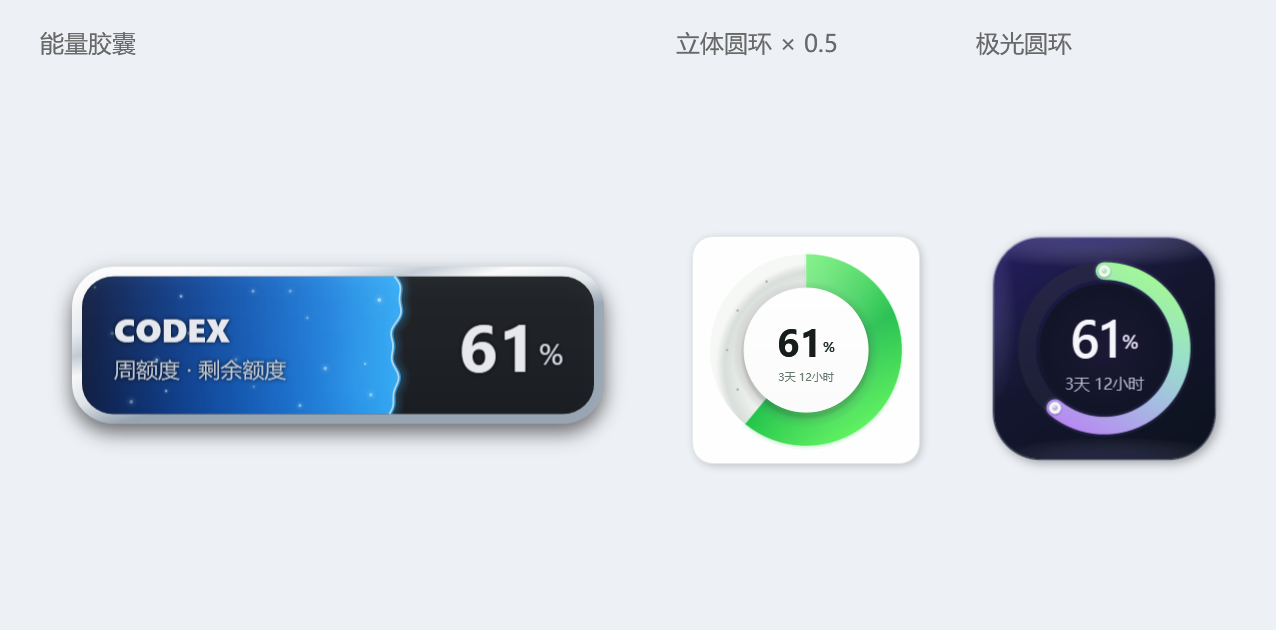
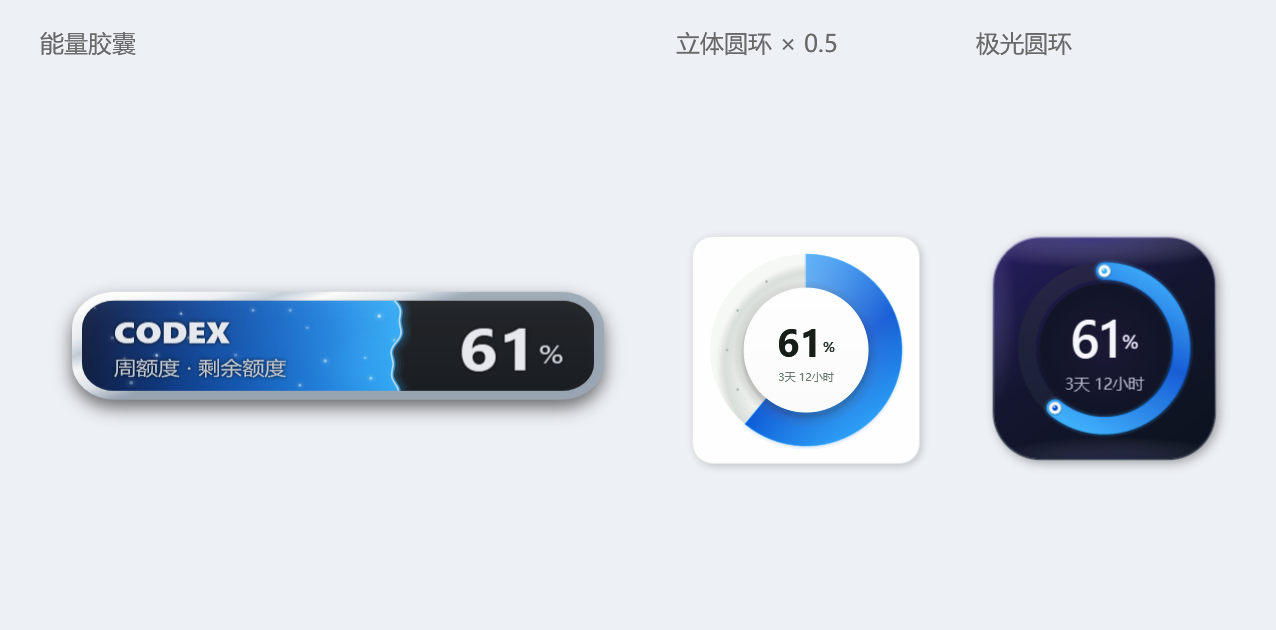
Unify skin quota colors and reduce capsule height

diff --git a/src/RingMeter.cs b/src/RingMeter.cs
@@ -23,12 +23,12 @@ class RingSurface : FrameworkElement {
         if(p<=0)return;
         var arc=new StreamGeometry();using(var s=arc.Open()){s.BeginFigure(new Point(c,c-r),false,false);if(p>=0.9999){s.ArcTo(new Point(c,c+r),new Size(r,r),0,false,SweepDirection.Clockwise,true,false);s.ArcTo(new Point(c,c-r),new Size(r,r),0,false,SweepDirection.Clockwise,true,false);}else{double a=-Math.PI/2+p*2*Math.PI;s.ArcTo(new Point(c+r*Math.Cos(a),c+r*Math.Sin(a)),new Size(r,r),0,p>0.5,SweepDirection.Clockwise,true,false);}}arc.Freeze();
         var color=new LinearGradientBrush{StartPoint=new Point(0.8,0),EndPoint=new Point(0.15,1)};
-        string head=Remaining>50?"#9DFF7B":Remaining>30?"#81DAFF":Remaining>10?"#FFE286":"#FF9DAD";
-        color.GradientStops.Add(new GradientStop(B(head).Color,0));color.GradientStops.Add(new GradientStop(B(Remaining>30?"#8FE0C2":"#E9A0B7").Color,0.36));color.GradientStops.Add(new GradientStop(B("#9CB6E0").Color,0.65));color.GradientStops.Add(new GradientStop(B("#B478F3").Color,1));
-        dc.DrawGeometry(null,new Pen(new SolidColorBrush(Color.FromArgb(20,173,139,255)),23){StartLineCap=PenLineCap.Round,EndLineCap=PenLineCap.Round},arc);
+        var palette=QuotaColors.For(Remaining);
+        color.GradientStops.Add(new GradientStop(palette.Tip,0));color.GradientStops.Add(new GradientStop(palette.Body,0.45));color.GradientStops.Add(new GradientStop(palette.Tip,1));
+        dc.DrawGeometry(null,new Pen(new SolidColorBrush(Color.FromArgb(35,palette.Tip.R,palette.Tip.G,palette.Tip.B)),23){StartLineCap=PenLineCap.Round,EndLineCap=PenLineCap.Round},arc);
         dc.DrawGeometry(null,new Pen(color,18){StartLineCap=PenLineCap.Round,EndLineCap=PenLineCap.Round},arc);
         dc.DrawGeometry(null,new Pen(new SolidColorBrush(Color.FromArgb(20,255,255,255)),16){StartLineCap=PenLineCap.Round,EndLineCap=PenLineCap.Round},arc);
-        for(int i=0;i<(p>0.995?1:2);i++){double a=-Math.PI/2+(i==0?0:p*2*Math.PI);Point dot=new Point(c+r*Math.Cos(a),c+r*Math.Sin(a));dc.DrawEllipse(new SolidColorBrush(Color.FromArgb(40,8,9,28)),null,new Point(dot.X,dot.Y+1),7.2,7.2);dc.DrawEllipse(B("#F6FAF7"),new Pen(B("#D9E4E1"),0.7),dot,6,6);dc.DrawEllipse(B(i==0?"#A5E9B1":"#CAB0E8"),null,dot,2.9,2.9);dc.DrawEllipse(Brushes.White,null,new Point(dot.X-0.8,dot.Y-1.1),1,1);}
+        for(int i=0;i<(p>0.995?1:2);i++){double a=-Math.PI/2+(i==0?0:p*2*Math.PI);Point dot=new Point(c+r*Math.Cos(a),c+r*Math.Sin(a));dc.DrawEllipse(new SolidColorBrush(Color.FromArgb(40,8,9,28)),null,new Point(dot.X,dot.Y+1),7.2,7.2);dc.DrawEllipse(B("#F6FAF7"),new Pen(B("#D9E4E1"),0.7),dot,6,6);dc.DrawEllipse(new SolidColorBrush(i==0?palette.Tip:palette.Body),null,dot,2.9,2.9);dc.DrawEllipse(Brushes.White,null,new Point(dot.X-0.8,dot.Y-1.1),1,1);}
     }
     protected override void OnRender(DrawingContext dc){
         if(Dark){DrawDark(dc);return;}
@@ -42,14 +42,10 @@ class RingSurface : FrameworkElement {
             Geometry arc;
             if(p>=0.99999)arc=new CombinedGeometry(GeometryCombineMode.Exclude,new EllipseGeometry(new Point(c,c),r,r),new EllipseGeometry(new Point(c,c),inner,inner));
             else{double a=-Math.PI/2+p*Math.PI*2;Point outerEnd=new Point(c+r*Math.Cos(a),c+r*Math.Sin(a)),innerEnd=new Point(c+inner*Math.Cos(a),c+inner*Math.Sin(a));var g=new StreamGeometry();using(var s=g.Open()){s.BeginFigure(new Point(c,c-r),true,true);s.ArcTo(outerEnd,new Size(r,r),0,p>0.5,SweepDirection.Clockwise,true,false);s.LineTo(innerEnd,true,false);s.ArcTo(new Point(c,c-inner),new Size(inner,inner),0,p>0.5,SweepDirection.Counterclockwise,true,false);}g.Freeze();arc=g;}
-            Color light,dark;
-            if(Remaining>50){light=Color.FromRgb(112,255,103);dark=Color.FromRgb(18,187,64);}
-            else if(Remaining>30){light=Color.FromRgb(132,215,255);dark=Color.FromRgb(41,121,228);}
-            else if(Remaining>10){light=Color.FromRgb(255,230,109);dark=Color.FromRgb(229,159,25);}
-            else{light=Color.FromRgb(255,156,144);dark=Color.FromRgb(231,64,75);}
+            var palette=QuotaColors.For(Remaining);Color light=palette.Tip,dark=palette.Body;
             var fill=new LinearGradientBrush();fill.StartPoint=new Point(0,0);fill.EndPoint=new Point(0.8,1);fill.GradientStops.Add(new GradientStop(light,0));fill.GradientStops.Add(new GradientStop(dark,0.57));fill.GradientStops.Add(new GradientStop(light,1));
             dc.PushTransform(new TranslateTransform(0,1.6));dc.DrawGeometry(new SolidColorBrush(Color.FromArgb(25,dark.R,dark.G,dark.B)),new Pen(new SolidColorBrush(Color.FromArgb(15,dark.R,dark.G,dark.B)),4),arc);dc.Pop();
-            dc.DrawGeometry(fill,new Pen(new SolidColorBrush(Color.FromArgb(120,210,255,209)),1),arc);
+            dc.DrawGeometry(fill,new Pen(new SolidColorBrush(Color.FromArgb(120,light.R,light.G,light.B)),1),arc);
             dc.PushClip(arc);var glint=new RadialGradientBrush();glint.Center=new Point(0.5,0.18);glint.GradientOrigin=new Point(0.5,0.18);glint.RadiusX=0.60;glint.RadiusY=0.80;glint.GradientStops.Add(new GradientStop(Color.FromArgb(80,255,255,255),0));glint.GradientStops.Add(new GradientStop(Colors.Transparent,1));dc.DrawRectangle(glint,null,new Rect(c-r,c-r,2*r,2*r));dc.Pop();
         }
         for(int i=12;i>=1;i--)dc.DrawEllipse(new SolidColorBrush(Color.FromArgb((byte)(i<5?12:4),33,43,35)),null,new Point(c,c+4),inner+i*0.9,inner+i*0.9);
@@ -66,14 +62,14 @@ class AuroraShine : FrameworkElement {
 }
 
 class RingWindow : Window {
-    readonly string store;readonly bool dark;
+    readonly string store;readonly bool dark,previewMode;
     readonly string shared=Path.Combine(Environment.GetFolderPath(Environment.SpecialFolder.LocalApplicationData),"CodexUsageFloat","quota-cache.json");
     Border card;RingSurface ring;TextBlock percent,countdown;FrameGlow sweep;Forms.NotifyIcon tray;
     DispatcherTimer clock,scanTimer;TaskMonitor monitor;Rpc rpc;object rpcLock=new object();AutoResetEvent refresh=new AutoResetEvent(false);CancellationTokenSource cancel=new CancellationTokenSource();bool closing;int scanBusy;DateTime reset=DateTime.MinValue;DateTime updated;object current;
     public bool IsSweeping {get{return sweep.Active;}}public double SweepPhase {get{return sweep.Phase;}}public bool IsDark {get{return dark;}}
     static SolidColorBrush B(string color){return (SolidColorBrush)new BrushConverter().ConvertFromString(color);}
     public RingWindow(bool preview=false,bool darkStyle=false){
-        dark=darkStyle;store=Path.Combine(Environment.GetFolderPath(Environment.SpecialFolder.LocalApplicationData),dark?"CodexUsageAurora":"CodexUsageRing");
+        previewMode=preview;dark=darkStyle;store=Path.Combine(Environment.GetFolderPath(Environment.SpecialFolder.LocalApplicationData),dark?"CodexUsageAurora":"CodexUsageRing");
         Title=dark?"Codex 极光圆环":"Codex 用量圆环";Width=130;Height=130;WindowStyle=WindowStyle.None;ResizeMode=ResizeMode.NoResize;AllowsTransparency=true;Background=Brushes.Transparent;Topmost=true;ShowInTaskbar=false;FontFamily=new FontFamily("Microsoft YaHei UI");
         var root=new Grid{Width=260,Height=260,LayoutTransform=new ScaleTransform(0.5,0.5)};card=new Border{Background=Brushes.White,BorderBrush=B("#E4E8E6"),BorderThickness=new Thickness(1),CornerRadius=new CornerRadius(dark?48:20),Margin=new Thickness(16),Opacity=dark?0.98:0.97,Effect=new System.Windows.Media.Effects.DropShadowEffect{Color=dark?Color.FromRgb(10,11,36):Color.FromRgb(21,31,27),BlurRadius=dark?17:12,ShadowDepth=dark?5:4,Opacity=dark?0.36:0.20}};
         if(dark){var body=new LinearGradientBrush();body.StartPoint=new Point(0.15,0);body.EndPoint=new Point(0.85,1);body.GradientStops.Add(new GradientStop(B("#21195A").Color,0));body.GradientStops.Add(new GradientStop(B("#10122C").Color,0.46));body.GradientStops.Add(new GradientStop(B("#090F1C").Color,1));card.Background=body;card.BorderBrush=new LinearGradientBrush(B("#A09ACA").Color,B("#202C3D").Color,90);card.BorderThickness=new Thickness(1.2);}
@@ -98,7 +94,7 @@ class RingWindow : Window {
     volatile bool forceRead;
     void Add(ContextMenu m,string name,Action action){var item=new MenuItem{Header=name};item.Click+=(s,e)=>action();m.Items.Add(item);}
     void Restore(){Left=SystemParameters.WorkArea.Right-Width-350;Top=SystemParameters.WorkArea.Top+80;try{string file=Path.Combine(store,"settings.json");if(File.Exists(file)){var d=Data.Json().DeserializeObject(File.ReadAllText(file));Left=Data.Num(Data.Get(d,"left"),Left);Top=Data.Num(Data.Get(d,"top"),Top);}else{string main=Path.Combine(Environment.GetFolderPath(Environment.SpecialFolder.LocalApplicationData),"CodexUsageFloat","settings.json");if(File.Exists(main)){var d=Data.Json().DeserializeObject(File.ReadAllText(main));Left=Data.Num(Data.Get(d,"left"),Left)-Width-12;Top=Data.Num(Data.Get(d,"top"),Top);}}}catch{}Left=Math.Max(SystemParameters.VirtualScreenLeft,Math.Min(Left,SystemParameters.VirtualScreenLeft+SystemParameters.VirtualScreenWidth-Width));Top=Math.Max(SystemParameters.VirtualScreenTop,Math.Min(Top,SystemParameters.VirtualScreenTop+SystemParameters.VirtualScreenHeight-Height));}
-    void Save(){try{Data.Atomic(Path.Combine(store,"settings.json"),Data.Json().Serialize(new{left=Left,top=Top}));}catch{}}
+    void Save(){if(previewMode)return;try{Data.Atomic(Path.Combine(store,"settings.json"),Data.Json().Serialize(new{left=Left,top=Top}));}catch{}}
     public static string Countdown(DateTime target,DateTime now){if(target==DateTime.MinValue)return "重置时间暂未提供";double seconds=Math.Ceiling((target-now).TotalSeconds);if(seconds<=0)return "等待额度重置…";if(seconds<3600)return "不足1小时";var t=TimeSpan.FromSeconds(seconds);return (t.Days>0?t.Days+"天 ":"")+t.Hours+"小时";}
     void UpdateCountdown(){countdown.Text=Countdown(reset,DateTime.Now);countdown.ToolTip=reset==DateTime.MinValue?"额度接口未返回重置时间":reset.ToString("yyyy-MM-dd HH:mm:ss")+" 重置（本地时间）";}
     public void ApplyData(object data,bool stale,DateTime time){current=data;updated=time;var rows=Data.Quotas(data);if(rows.Count==0){percent.Text="—";reset=DateTime.MinValue;UpdateCountdown();return;}var q=rows.First();ring.Remaining=q.Remaining;ring.InvalidateVisual();percent.Text=q.Remaining.ToString("0.#")+(stale?"*":"");reset=q.Reset;card.ToolTip=(stale?"缓存额度 · ":"已同步 ")+time.ToString("HH:mm:ss")+"\n"+string.Join("\n",rows.Select(r=>r.Label+"剩余 "+r.Remaining.ToString("0.#")+"%"));UpdateCountdown();}

diff --git a/src/CodexMeter.cs b/src/CodexMeter.cs
@@ -19,14 +19,27 @@ using System.Windows.Markup;
 using Forms = System.Windows.Forms;
 
 namespace CodexMeter {
+sealed class QuotaColors {
+    public readonly Color Start,Body,Tip;public readonly string Name;
+    QuotaColors(string name,string start,string body,string tip){Name=name;Start=(Color)ColorConverter.ConvertFromString(start);Body=(Color)ColorConverter.ConvertFromString(body);Tip=(Color)ColorConverter.ConvertFromString(tip);}
+    static readonly QuotaColors[] stages={
+        new QuotaColors("翠绿","#08260F","#0F9D2A","#70F77D"),
+        new QuotaColors("蓝色","#09173A","#004DD2","#31B1FF"),
+        new QuotaColors("紫色","#1B0F34","#5727AE","#B688FF"),
+        new QuotaColors("金黄","#312507","#AF900D","#FFED73"),
+        new QuotaColors("橙黄","#412007","#DB7900","#FFDA53"),
+        new QuotaColors("红橙","#3B0E1C","#C51F3E","#FF8153")
+    };
+    public static QuotaColors For(double remaining){return stages[remaining>80?0:remaining>60?1:remaining>40?2:remaining>20?3:remaining>10?4:5];}
+}
 static class Data {
     public static Dictionary<string,object> Obj(object x) { return x as Dictionary<string,object> ?? new Dictionary<string,object>(); }
     public static object Get(object x,string k) { object v; return Obj(x).TryGetValue(k,out v)?v:null; }
     public static string Str(object x) { return x == null ? "" : Convert.ToString(x,System.Globalization.CultureInfo.InvariantCulture); }
     public static double Num(object x,double fallback) { double v; return double.TryParse(Str(x),System.Globalization.NumberStyles.Any,System.Globalization.CultureInfo.InvariantCulture,out v)&&!double.IsInfinity(v)&&!double.IsNaN(v)?v:fallback; }
     public static JavaScriptSerializer Json() { return new JavaScriptSerializer { MaxJsonLength=32000000, RecursionLimit=120 }; }
-    public static string Stage(double n) { return n>50?"#56DCA8":n>30?"#65B8FF":n>10?"#F5C35E":"#FF7485"; }
-    public static string StageName(double n) { return n>50?"充足":n>30?"正常":n>10?"留意额度":"即将用尽"; }
+    public static string Stage(double n) { return QuotaColors.For(n).Body.ToString(); }
+    public static string StageName(double n) { return QuotaColors.For(n).Name; }
     public static DateTime Epoch(object x) { double s=Num(x,0); try{return new DateTime(1970,1,1,0,0,0,DateTimeKind.Utc).AddSeconds(s).ToLocalTime();}catch{return DateTime.MinValue;} }
     public static void Atomic(string path,string value) { string tmp=path+".tmp"; File.WriteAllText(tmp,value,new UTF8Encoding(false)); if(File.Exists(path)) File.Replace(tmp,path,null); else File.Move(tmp,path); }
     public static List<Quota> Quotas(object result) {
@@ -154,13 +167,7 @@ class EnergySurface : FrameworkElement {
     protected override void OnRender(DrawingContext dc){
         double w=ActualWidth,h=ActualHeight;if(w<=0||h<=0)return;
         double t=elapsed.Elapsed.TotalSeconds,p=double.IsNaN(DisplayedRemaining)?Remaining:DisplayedRemaining,x=w*Math.Max(0,Math.Min(100,p))/100;
-        Color start,body,tip;
-        if(Remaining>80){start=Color.FromRgb(8,38,15);body=Color.FromRgb(15,157,42);tip=Color.FromRgb(112,247,125);}
-        else if(Remaining>60){start=Color.FromRgb(9,23,58);body=Color.FromRgb(0,77,210);tip=Color.FromRgb(49,177,255);}
-        else if(Remaining>40){start=Color.FromRgb(27,15,52);body=Color.FromRgb(87,39,174);tip=Color.FromRgb(182,136,255);}
-        else if(Remaining>20){start=Color.FromRgb(49,37,7);body=Color.FromRgb(175,144,13);tip=Color.FromRgb(255,237,115);}
-        else if(Remaining>10){start=Color.FromRgb(65,32,7);body=Color.FromRgb(219,121,0);tip=Color.FromRgb(255,218,83);}
-        else{start=Color.FromRgb(59,14,28);body=Color.FromRgb(197,31,62);tip=Color.FromRgb(255,129,83);}
+        var palette=QuotaColors.For(Remaining);Color start=palette.Start,body=palette.Body,tip=palette.Tip;
         dc.PushClip(new RectangleGeometry(new Rect(0,0,w,h),16,16));dc.DrawRectangle(new SolidColorBrush(Color.FromRgb(20,23,27)),null,new Rect(0,0,w,h));
         if(x>0.01){
             const int samples=49;var pts=new Point[samples];for(int i=0;i<samples;i++){double y=h*i/(samples-1);pts[i]=new Point(Edge(y,t,x),y);}
@@ -245,8 +252,8 @@ class FloatWindow : Window {
     readonly bool previewMode;
     public FloatWindow(bool preview=false){
         previewMode=preview;
-        Title="Codex 用量胶囊";Width=298;Height=114;WindowStyle=WindowStyle.None;ResizeMode=ResizeMode.NoResize;AllowsTransparency=true;Background=Brushes.Transparent;Topmost=true;ShowInTaskbar=false;FontFamily=new FontFamily("Microsoft YaHei UI");
-        frame=(Border)XamlReader.Parse(@"<Border xmlns='http://schemas.microsoft.com/winfx/2006/xaml/presentation' xmlns:x='http://schemas.microsoft.com/winfx/2006/xaml' Background='Transparent' Opacity='0.92' BorderThickness='5' CornerRadius='21' Margin='16,12,16,20'>
+        Title="Codex 用量胶囊";Width=298;Height=85.5;WindowStyle=WindowStyle.None;ResizeMode=ResizeMode.NoResize;AllowsTransparency=true;Background=Brushes.Transparent;Topmost=true;ShowInTaskbar=false;FontFamily=new FontFamily("Microsoft YaHei UI");
+        frame=(Border)XamlReader.Parse(@"<Border xmlns='http://schemas.microsoft.com/winfx/2006/xaml/presentation' xmlns:x='http://schemas.microsoft.com/winfx/2006/xaml' Background='Transparent' Opacity='0.92' BorderThickness='5' CornerRadius='21' Margin='16,9,16,15'>
           <Border.Effect><DropShadowEffect Color='#07111D' BlurRadius='16' ShadowDepth='5' Direction='270' Opacity='0.62'/></Border.Effect>
           <Grid Background='Transparent'>
             <StackPanel x:Name='Quotas' Orientation='Horizontal'/>
@@ -295,7 +302,7 @@ class FloatWindow : Window {
         if(rows.Count==0){Width=298;quotaPanel.Children.Add(new TextBlock{Text="CODEX      —",FontSize=17,Foreground=Brush("#CED5E0"),Margin=new Thickness(18,0,0,0),VerticalAlignment=VerticalAlignment.Center});frame.ToolTip=stale?"额度暂不可用，将自动重试":"正在读取真实额度…";return;}
         Width=42+rows.Count*256;
         foreach(var row in rows){
-            var group=new Grid{Width=256,Tag=row.Label};string hue=row.Remaining>50?"#B8F34C":row.Remaining>30?"#64CFFF":row.Remaining>10?"#FFD35A":"#FF795C";var surface=new EnergySurface{Remaining=row.Remaining,DisplayedRemaining=previous.ContainsKey(row.Label)?previous[row.Label]:row.Remaining,Tint=Brush(hue).Color,Intensity=unread>0?1:0.8};group.Children.Add(surface);
+            var group=new Grid{Width=256,Tag=row.Label};var surface=new EnergySurface{Remaining=row.Remaining,DisplayedRemaining=previous.ContainsKey(row.Label)?previous[row.Label]:row.Remaining,Tint=QuotaColors.For(row.Remaining).Body,Intensity=unread>0?1:0.8};group.Children.Add(surface);
             var title=new StackPanel{Margin=new Thickness(16,0,0,0),HorizontalAlignment=HorizontalAlignment.Left,VerticalAlignment=VerticalAlignment.Center};
             var shadow=new System.Windows.Media.Effects.DropShadowEffect{BlurRadius=4,ShadowDepth=0,Color=Colors.Black,Opacity=0.9};
             title.Children.Add(new TextBlock{Text="CODEX",FontFamily=new FontFamily("Segoe UI"),FontWeight=FontWeights.ExtraBold,FontSize=17,Foreground=Brush("#F0F4FA"),Effect=shadow});
@@ -321,6 +328,7 @@ static class Program {
             if(args.Contains("--compare-preview")||args.Contains("--ring-test"))return RingProgram.Main(args);
             if(args.Contains("--skin-test"))return SkinController.Test(args.Last());
             if(args.Contains("--stages-preview"))return RenderPreviews.Stages(args.Last());
+            if(args.Contains("--all-skins-stages-preview"))return RenderPreviews.AllSkinsStages(args.Last());
             if(args.Contains("--alert-preview"))return RenderPreviews.Alert(args.Last());
             if(args.Contains("--skin-preview")||args.Contains("--demo-preview"))return SkinController.Preview(args.Last(),args.Contains("--demo-preview"));
             if(args.Contains("--self-test")){SelfTest(args.Last());return 0;}
@@ -338,7 +346,7 @@ static class Program {
     }
     static void Check(bool test,string name,List<string> passed){if(!test)throw new Exception("FAILED: "+name);passed.Add(name);}
     static void SelfTest(string output){var passed=new List<string>();
-        Check(Data.Stage(51)=="#56DCA8"&&Data.Stage(50)=="#65B8FF"&&Data.Stage(31)=="#65B8FF"&&Data.Stage(30)=="#F5C35E"&&Data.Stage(11)=="#F5C35E"&&Data.Stage(10)=="#FF7485"&&Data.Stage(0)=="#FF7485","threshold boundaries",passed);
+        Check(Data.Stage(100)=="#FF0F9D2A"&&Data.Stage(80.01)=="#FF0F9D2A"&&Data.Stage(80)=="#FF004DD2"&&Data.Stage(60.01)=="#FF004DD2"&&Data.Stage(60)=="#FF5727AE"&&Data.Stage(40.01)=="#FF5727AE"&&Data.Stage(40)=="#FFAF900D"&&Data.Stage(20.01)=="#FFAF900D"&&Data.Stage(20)=="#FFDB7900"&&Data.Stage(10.01)=="#FFDB7900"&&Data.Stage(10)=="#FFC51F3E"&&Data.Stage(0)=="#FFC51F3E","shared six-stage threshold boundaries",passed);
         var q=Data.Quotas(Data.Json().DeserializeObject("{\"rateLimitsByLimitId\":{\"codex\":{\"primary\":{\"usedPercent\":4,\"windowDurationMins\":10080},\"secondary\":null}}}"));Check(q.Count==1&&q[0].Remaining==96&&q[0].Label=="周额度","weekly primary without secondary",passed);
         q=Data.Quotas(Data.Json().DeserializeObject("{\"rateLimits\":{\"primary\":{\"usedPercent\":120,\"windowDurationMins\":300},\"secondary\":{\"usedPercent\":10,\"windowDurationMins\":10080},\"individualLimit\":{\"remainingPercent\":68}}}"));Check(q.Count==3&&q[0].Remaining==0&&q[0].Label=="5 小时额度"&&q[2].Remaining==68,"legacy and monthly quotas",passed);
         Check(Data.Quotas(new {}).Count==0,"missing quota stays unknown",passed);

diff --git a/src/RenderPreviews.cs b/src/RenderPreviews.cs
@@ -16,6 +16,18 @@ static class RenderPreviews {
     static FloatWindow Make(int remaining){var w=new FloatWindow(true){ShowActivated=false,Left=SystemParameters.VirtualScreenLeft-2000,Top=SystemParameters.VirtualScreenTop-2000};w.SetPreviewQuota(Quota(remaining));w.Show();w.UpdateLayout();return w;}
     static void Save(Visual visual,double width,double height,string file){var bmp=new RenderTargetBitmap((int)Math.Ceiling(width*2),(int)Math.Ceiling(height*2),192,192,PixelFormats.Pbgra32);bmp.Render(visual);var encoder=new PngBitmapEncoder();encoder.Frames.Add(BitmapFrame.Create(bmp));using(var f=File.Create(file))encoder.Save(f);}
     static void Text(DrawingContext dc,string value,double x,double y,double size,Brush color,bool bold=false){dc.DrawText(new FormattedText(value,CultureInfo.InvariantCulture,FlowDirection.LeftToRight,new Typeface(new FontFamily("Microsoft YaHei UI"),FontStyles.Normal,bold?FontWeights.SemiBold:FontWeights.Normal,FontStretches.Normal),size,color,1),new Point(x,y));}
+    public static int AllSkinsStages(string path){
+        string folder=Path.GetFullPath(path);Directory.CreateDirectory(folder);var app=new Application{ShutdownMode=ShutdownMode.OnExplicitShutdown};var windows=new List<Window>();int[] levels={100,80,60,40,20,10};
+        try{var scene=new DrawingVisual();const double width=700,height=1090;using(var dc=scene.RenderOpen()){
+            dc.DrawRectangle(new SolidColorBrush(Color.FromRgb(237,240,245)),null,new Rect(0,0,width,height));Text(dc,"三种皮肤 · 六档额度配色",24,16,19,Brushes.DarkSlateGray,true);
+            Text(dc,"能量胶囊",28,53,12,Brushes.DimGray);Text(dc,"白色立体圆环",350,53,12,Brushes.DimGray);Text(dc,"极光圆环",530,53,12,Brushes.DimGray);
+            for(int i=0;i<levels.Length;i++){int value=levels[i];double y=80+i*166;Text(dc,value+"% · "+QuotaColors.For(value).Name,28,y,12,Brushes.DarkSlateGray,true);
+                var capsule=Make(value);windows.Add(capsule);capsule.CaptureScene(Path.Combine(folder,"capsule-"+value+".png"));dc.DrawRectangle(new VisualBrush(capsule),null,new Rect(10,y+20+(130-capsule.ActualHeight)/2,capsule.ActualWidth,capsule.ActualHeight));
+                for(int style=0;style<2;style++){var ring=new RingWindow(true,style==1){ShowActivated=false,Left=SystemParameters.VirtualScreenLeft-2000,Top=SystemParameters.VirtualScreenTop-2000};windows.Add(ring);ring.ApplyData(Quota(value),false,DateTime.Now);ring.Show();ring.UpdateLayout();ring.Capture(Path.Combine(folder,(style==0?"white-":"aurora-")+value+".png"));dc.DrawRectangle(new VisualBrush(ring),null,new Rect(style==0?330:510,y+20,130,130));}
+            }
+        }Save(scene,width,height,Path.Combine(folder,"三皮肤六档配色.png"));
+        }finally{foreach(var w in windows)w.Close();app.Shutdown();}return 0;
+    }
     public static int Stages(string path){string folder=Path.GetFullPath(path);Directory.CreateDirectory(folder);var app=new Application{ShutdownMode=ShutdownMode.OnExplicitShutdown};int[] levels={100,90,80,75,60,50,40,30,20,10,5,0};var windows=new List<FloatWindow>();
         try{foreach(int level in levels){var w=Make(level);windows.Add(w);w.CaptureScene(Path.Combine(folder,"quota-"+level.ToString("000")+".png"));}
             double cellWidth=298,width=3*cellWidth+4*18,height=80+Math.Ceiling(levels.Length/3.0)*150;var scene=new DrawingVisual();using(var dc=scene.RenderOpen()){

diff --git a/README.md b/README.md
@@ -11,6 +11,7 @@ A small Windows desktop widget for Codex quota, reset countdowns, and local task
 - 右键切换三种皮肤：动态能量胶囊、白色立体圆环、深紫色极光圆环。
 - 白色圆环与极光圆环均为 130 × 130；支持拖动、置顶、托盘收起与记住位置。
 - 每分钟读取账号真实剩余额度，按阶段变色；过期或缓存数据会标记星号。
+- 三种皮肤统一六档配色：>80% 翠绿、>60% 蓝、>40% 紫、>20% 金黄、>10% 橙黄、≤10% 红橙。
 - 圆环中心显示百分比及重置倒计时，精确到天、小时；不足一小时会明确提示。
 - 本机任务完成时，整个框体（含填充区、暗色区和边框）泛红发光，3 秒后淡出。切换皮肤不会重新开始提醒计时。
 - 使用已有 Codex 登录，无需填写 API Key。演示图使用虚构数值。
@@ -46,11 +47,13 @@ Start-Process -FilePath $exe -ArgumentList "--demo-preview `"$preview`"" -Wait
 
 ### 额度阶段与任务完成效果
 
+![Six quota colors across all three skins](docs/all-skin-stages.png)
+
 ![Capsule quota stages](docs/quota-stages.png)
 
 ![Three-second full-frame completion glow](docs/completion-glow.gif)
 
-可用 `--stages-preview <目录>` 导出九个示例额度状态，用 `--alert-preview <目录>` 导出完成提醒的逐帧图像。这些导出使用示例额度，无需登录或联网。
+可用 `--stages-preview <目录>` 导出十二个胶囊示例额度状态，`--all-skins-stages-preview <目录>` 导出三种皮肤的六档对比图，用 `--alert-preview <目录>` 导出完成提醒的逐帧图像。这些导出使用示例额度，无需登录或联网。
 
 ## 数据与边界
 

diff --git a/CHANGELOG.md b/CHANGELOG.md
@@ -1,5 +1,12 @@
 # Changelog
 
+## v1.0.7 — 2026-10-18
+
+- Share the same six quota palettes across capsule, white ring, and aurora ring.
+- Tint ring shading, highlights, glow, and endpoint markers to match each quota stage.
+- Export an offline all-skin color comparison without changing saved window positions.
+- Reduce capsule height by 25 percent while preserving width, bold text, and the uniform five-pixel rim.
+
 ## v1.0.6 — 2026-10-18
 
 - Make the highest capsule quota stage greener while retaining the blue 80 percent stage.
